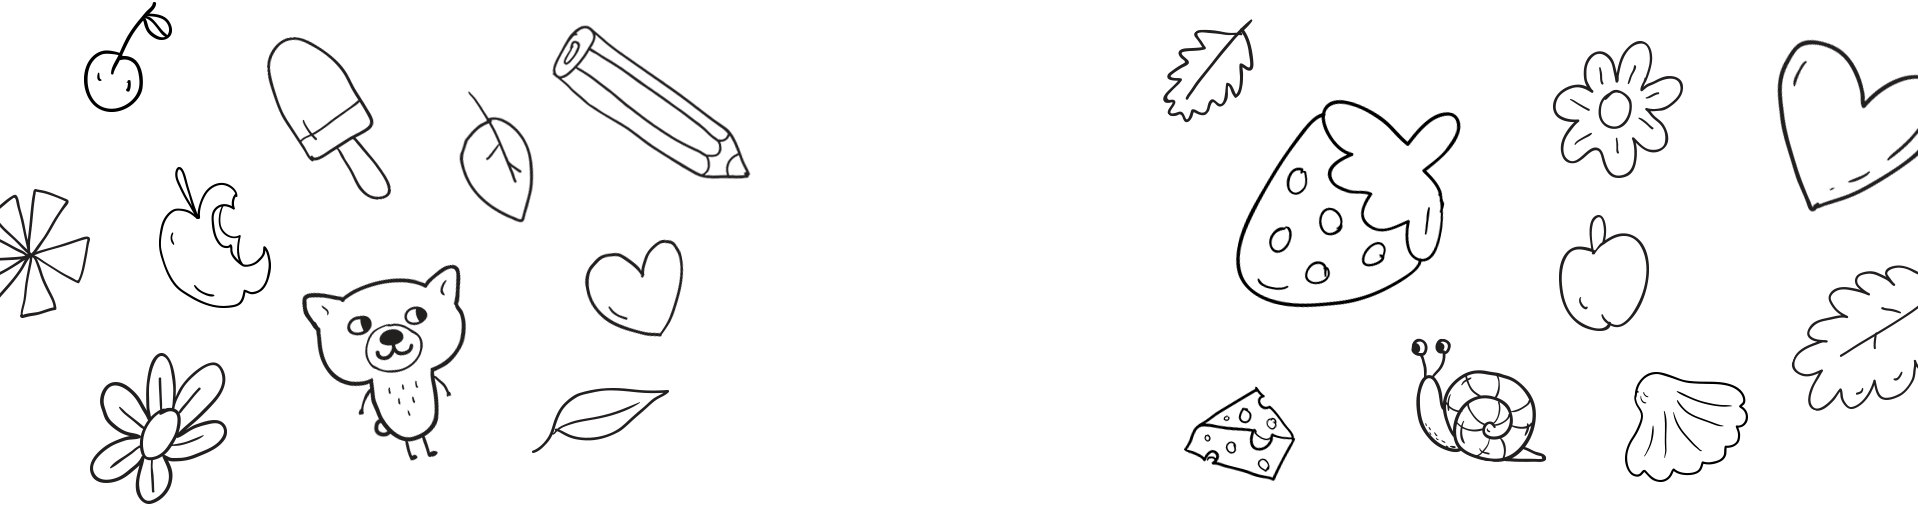
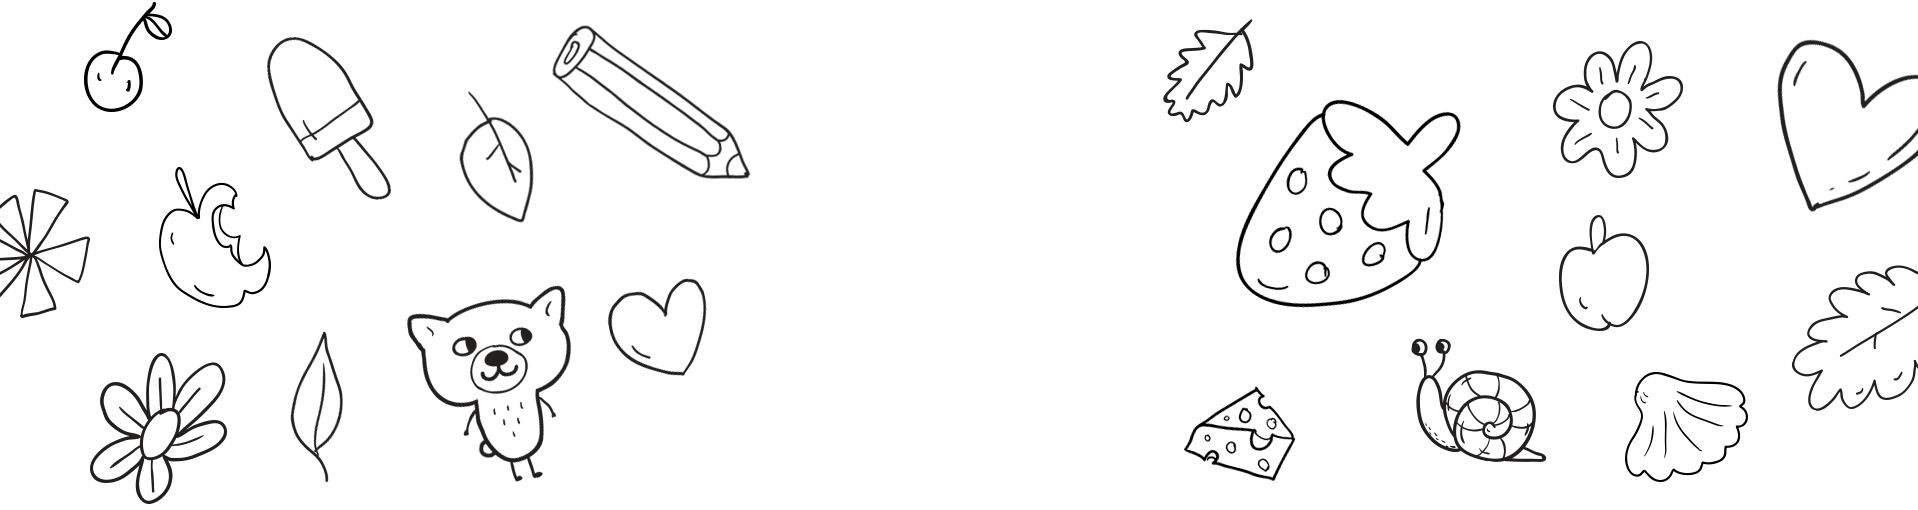
minor gui fix - footer blinkers

diff --git a/app/scss/promo-share.scss b/app/scss/promo-share.scss
@@ -34,8 +34,8 @@
 }
 
 .overlay__blinking-catbear {
-  top: 159px;
-  left: -577px;
+  top: 180px;
+  left: -471px;
   width: 180px;
   height: 210px;
   background-image: url("../img/gifs/blinking-catbear.gif");
